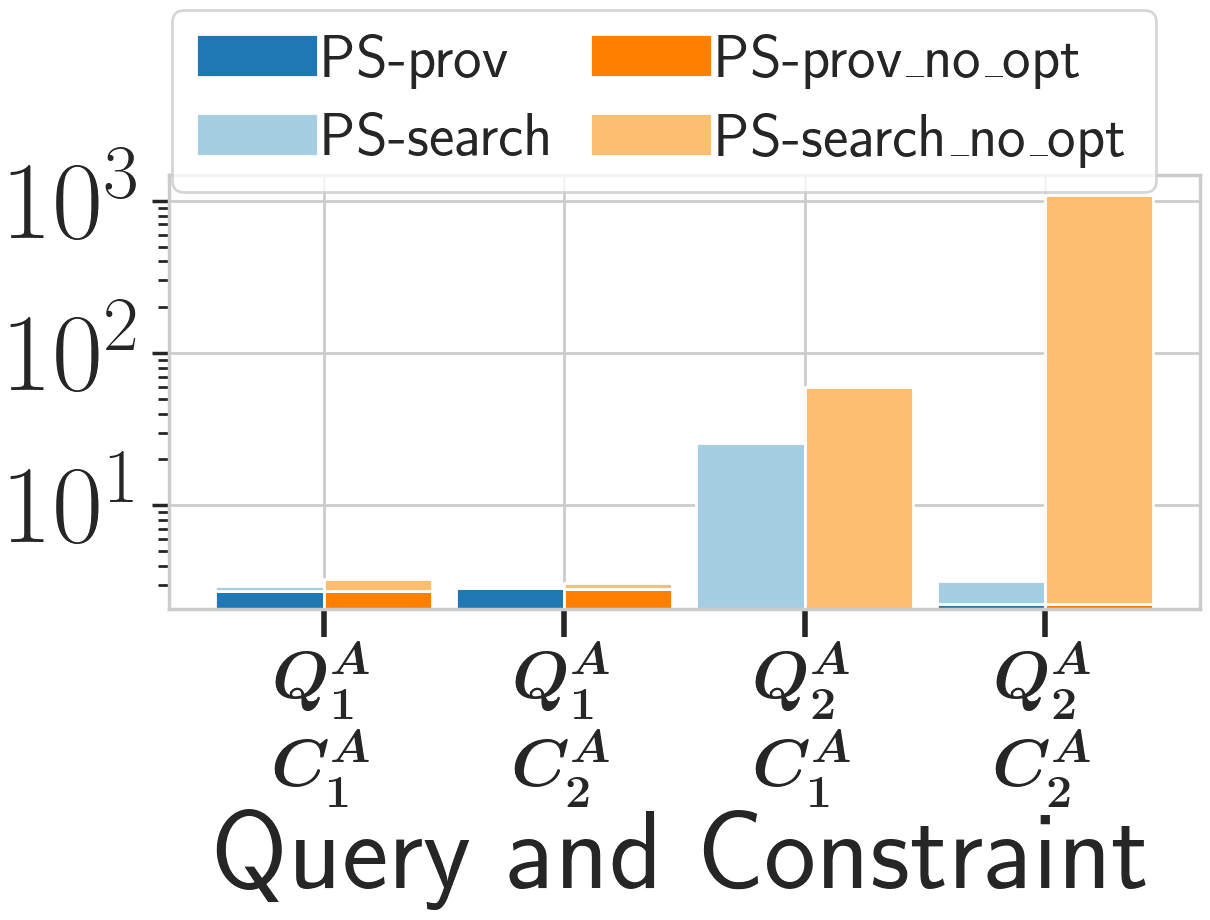
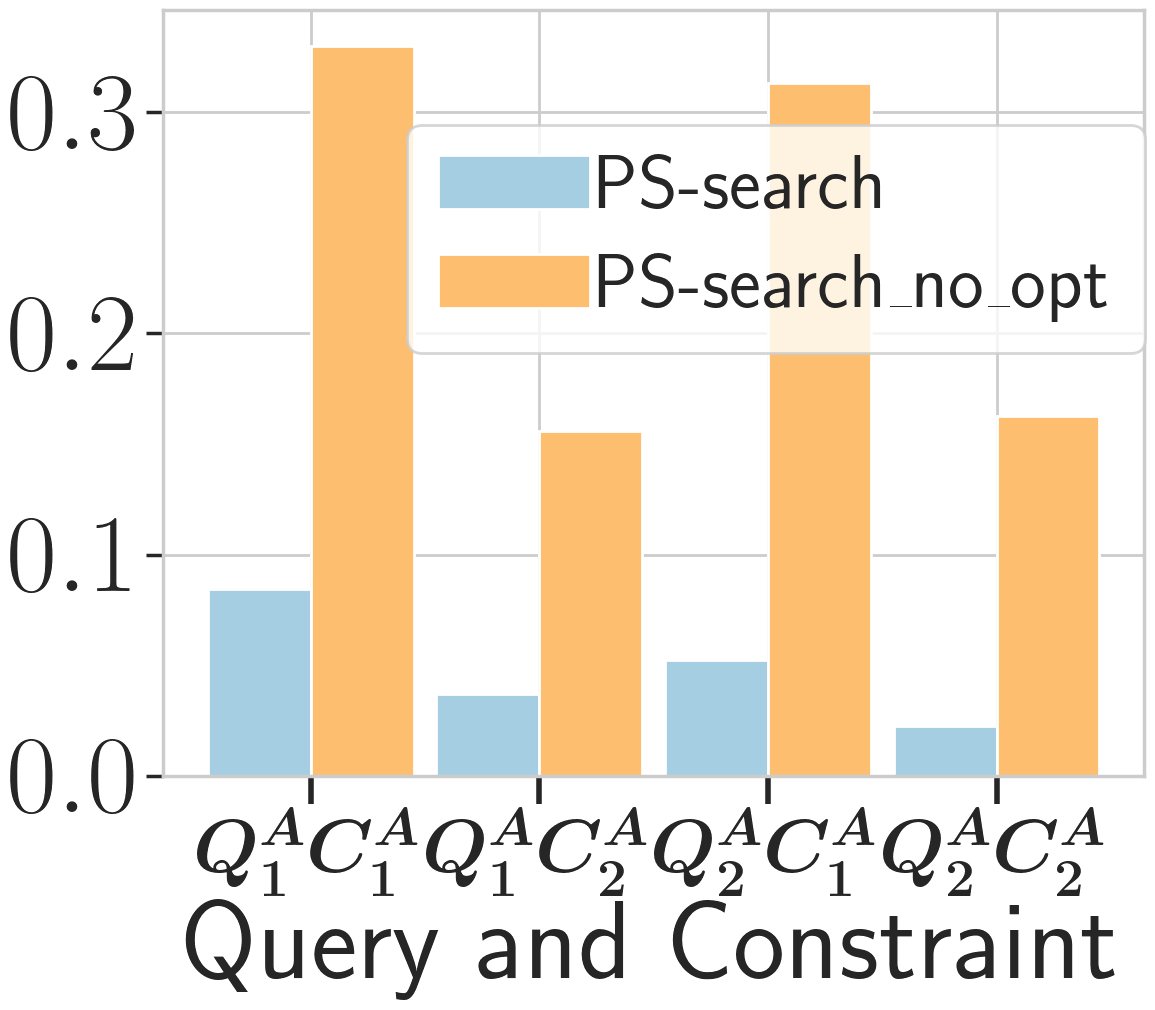
ACSIncome effect optimization new pvl

diff --git a/Experiment/ACSIncome/whole_data/effect_optimizatoin/fig.py b/Experiment/ACSIncome/whole_data/effect_optimizatoin/fig.py
@@ -19,7 +19,7 @@ plt.rc('font', size=70, weight='bold')
 color = ['C1', 'C0', 'C7', 'C6']
 label = ['PS-prov', "PS-search", "PS-prov\_no\_opt", "PS-search\_no\_opt"]
 
-f_size = (14, 14)
+f_size = (14, 12)
 
 x_list = list()
 x_naive = list()
@@ -46,14 +46,14 @@ for line in Lines:
         break
     items = line.strip().split(',')
     x_list.append(items[0])
-    execution_timeps1.append(float(items[2]))
-    execution_timeps2.append(float(items[3]))
-    if items[4] != '':
-        execution_timebl1.append(float(items[5]))
-        execution_timebl2.append(float(items[6]))
-    else:
-        execution_timebl1.append(0)
-        execution_timebl2.append(0)
+    execution_timeps1.append(float(items[1]))
+    execution_timebl1.append(float(items[2]))
+    # if items[4] != '':
+    #     execution_timebl1.append(float(items[5]))
+    #     execution_timebl2.append(float(items[6]))
+    # else:
+    #     execution_timebl1.append(0)
+    #     execution_timebl2.append(0)
 
 
 
@@ -62,24 +62,26 @@ bar_width = 0.45
 
 fig, ax = plt.subplots(1, 1, figsize=f_size)
 
-plt.bar(index, execution_timeps1, bar_width, color=color[0], label=label[0])
-plt.bar(index, execution_timeps2, bar_width, bottom=execution_timeps1,
-        color=color[1], label=label[1])
-plt.bar(index + bar_width, execution_timebl1, bar_width, color=color[2], label=label[2])
-plt.bar(index + bar_width, execution_timebl2, bar_width, bottom=execution_timebl1,
-        color=color[3], label=label[3])
+plt.bar(index, execution_timeps1, bar_width, color=color[1], label=label[1])
+# plt.bar(index, execution_timeps2, bar_width, bottom=execution_timeps1,
+#         color=color[1], label=label[1])
+plt.bar(index + bar_width, execution_timebl1, bar_width, color=color[3], label=label[3])
+# plt.bar(index + bar_width, execution_timebl2, bar_width, bottom=execution_timebl1,
+#         color=color[3], label=label[3])
 
-x_list = ['\\boldmath$Q^A_1$\n\\boldmath$C^A_1$', '\\boldmath$Q^A_1$\n\\boldmath$C^A_2$',
-          '\\boldmath$Q^A_2$\n\\boldmath$C^A_1$', '\\boldmath$Q^A_2$\n\\boldmath$C^A_2$']
+# x_list = ['\\boldmath$Q^A_1$\n\\boldmath$C^A_1$', '\\boldmath$Q^A_1$\n\\boldmath$C^A_2$',
+#           '\\boldmath$Q^A_2$\n\\boldmath$C^A_1$', '\\boldmath$Q^A_2$\n\\boldmath$C^A_2$']
+x_list = ['\\boldmath$Q^A_1$\\boldmath$C^A_1$', '\\boldmath$Q^A_1$\\boldmath$C^A_2$',
+          '\\boldmath$Q^A_2$\\boldmath$C^A_1$', '\\boldmath$Q^A_2$\\boldmath$C^A_2$']
 
 
-plt.xticks(np.arange(0, 4) + bar_width/2, x_list, rotation=0, fontsize=48)
+plt.xticks(np.arange(0, 4) + bar_width/2, x_list, rotation=0, fontsize=55)
 plt.yticks(fontsize=80, weight='bold')
 
 plt.xlabel('Query and Constraint', fontsize=80, weight='bold')
 
-plt.yscale('log')
-lgnd = plt.legend(loc='upper center', bbox_to_anchor=(0.48, 1.45), fontsize=44, ncol=2, labelspacing=0.4,
+# plt.yscale('log')
+lgnd = plt.legend(loc='upper right', bbox_to_anchor=(1.04, 0.9), fontsize=55, ncol=1, labelspacing=0.4,
                   handletextpad=0.1, markerscale=0.5, columnspacing=0.5)
 
 plt.tight_layout()

diff --git a/Experiment/ACSIncome/whole_data/effect_optimizatoin/q3/running_time_0.py b/Experiment/ACSIncome/whole_data/effect_optimizatoin/q3/running_time_0.py
@@ -61,7 +61,6 @@ def compare(q, c, time_output):
 
     # print("========================== baseline  ===================================")
     #
-    #
     # minimal_refinements3, _, running_time3, \
     #     provenance_time3, search_time3 = \
     #     lt.FindMinimalRefinement(data_file_prefix, separator, query_file, constraint_file,
@@ -96,9 +95,5 @@ def run(q, c):
     time_output.close()
 
 
-run(1, "constraint_relax1")
-# run(1, 2)
-# run(1, 3)
-# run(2, 1)
-# run(2, 2)
-# run(2, 3)
+run(3, "constraint_relax1")
+# run(3, "constraint_relax1")
